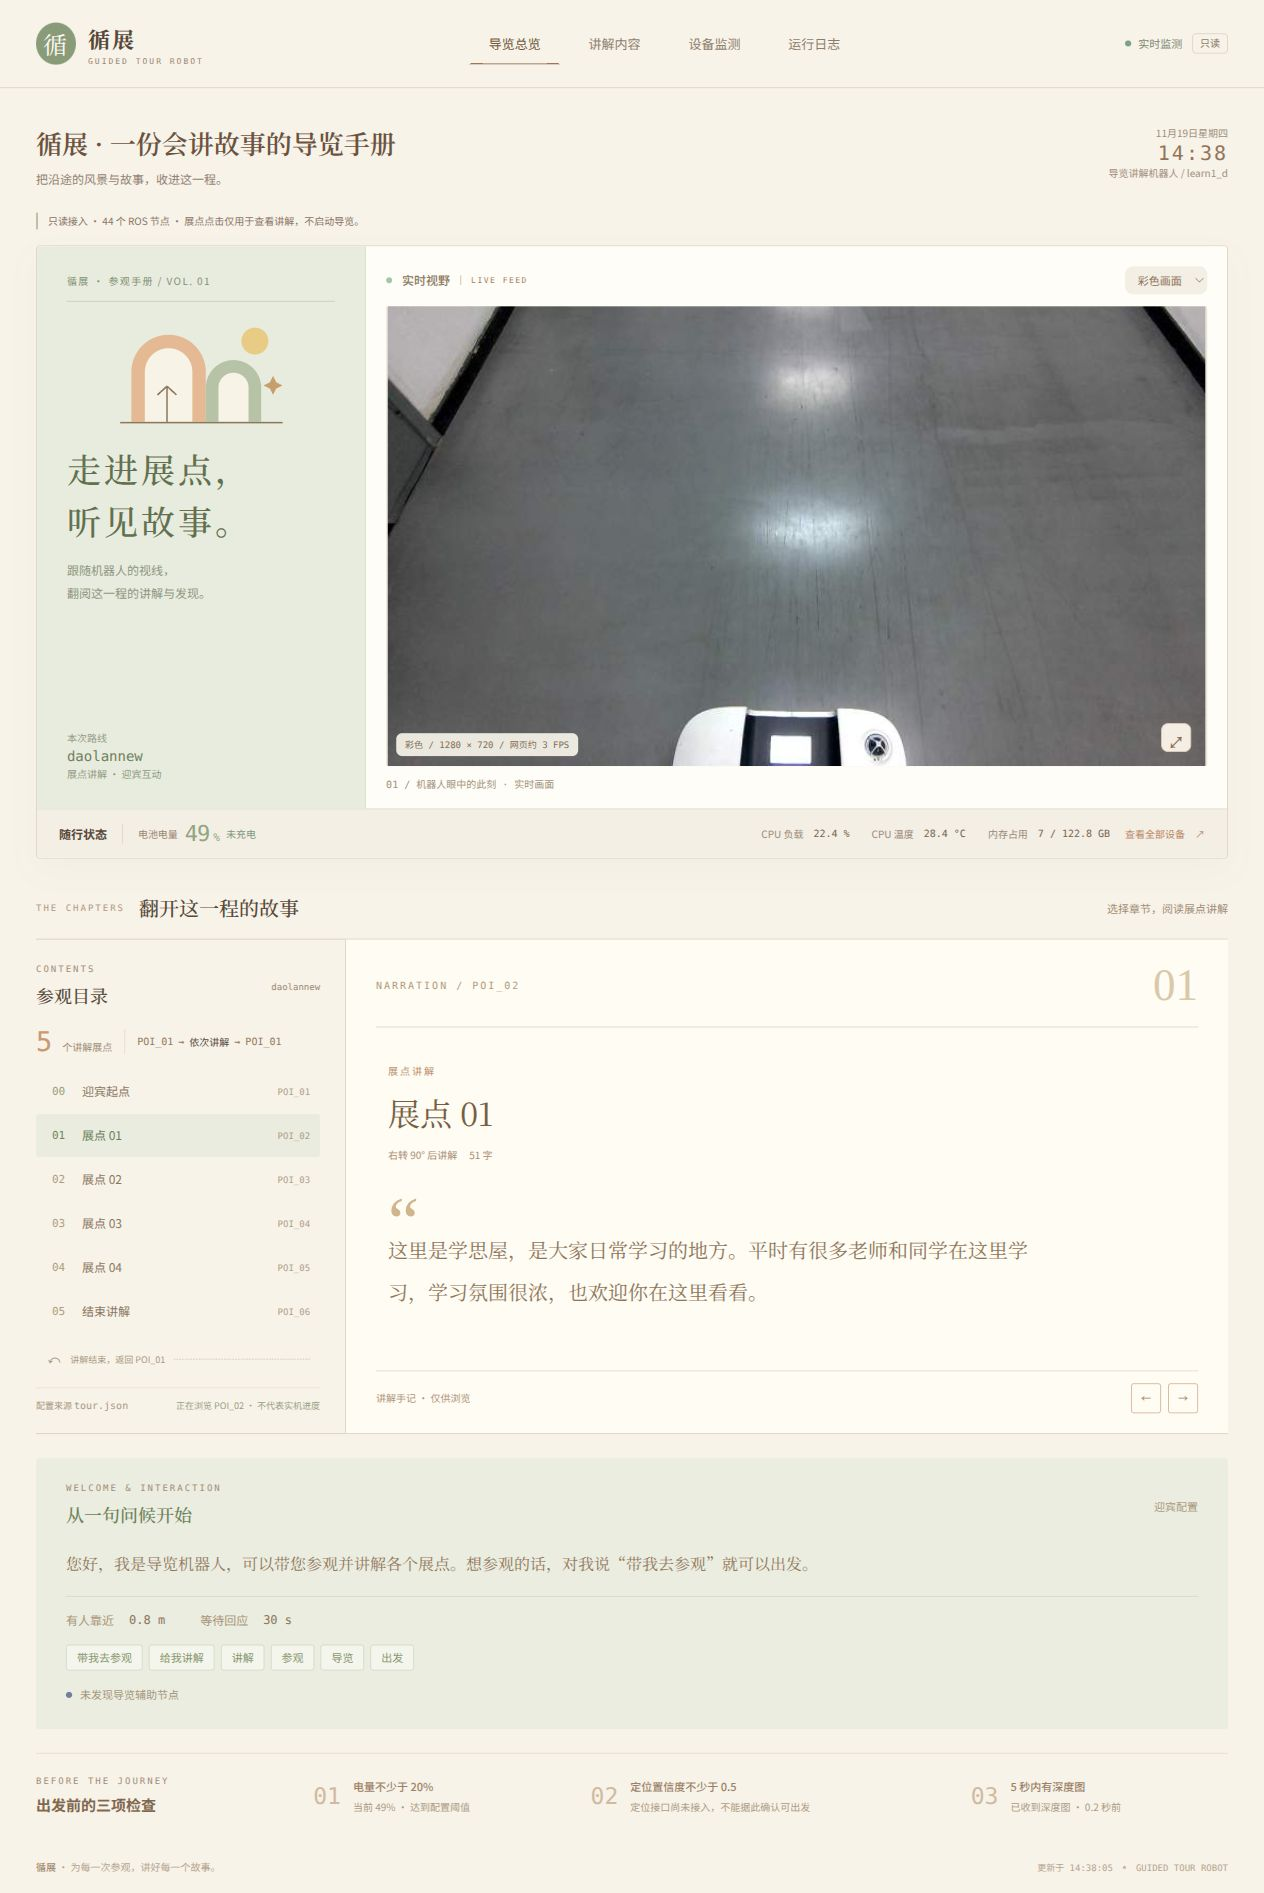
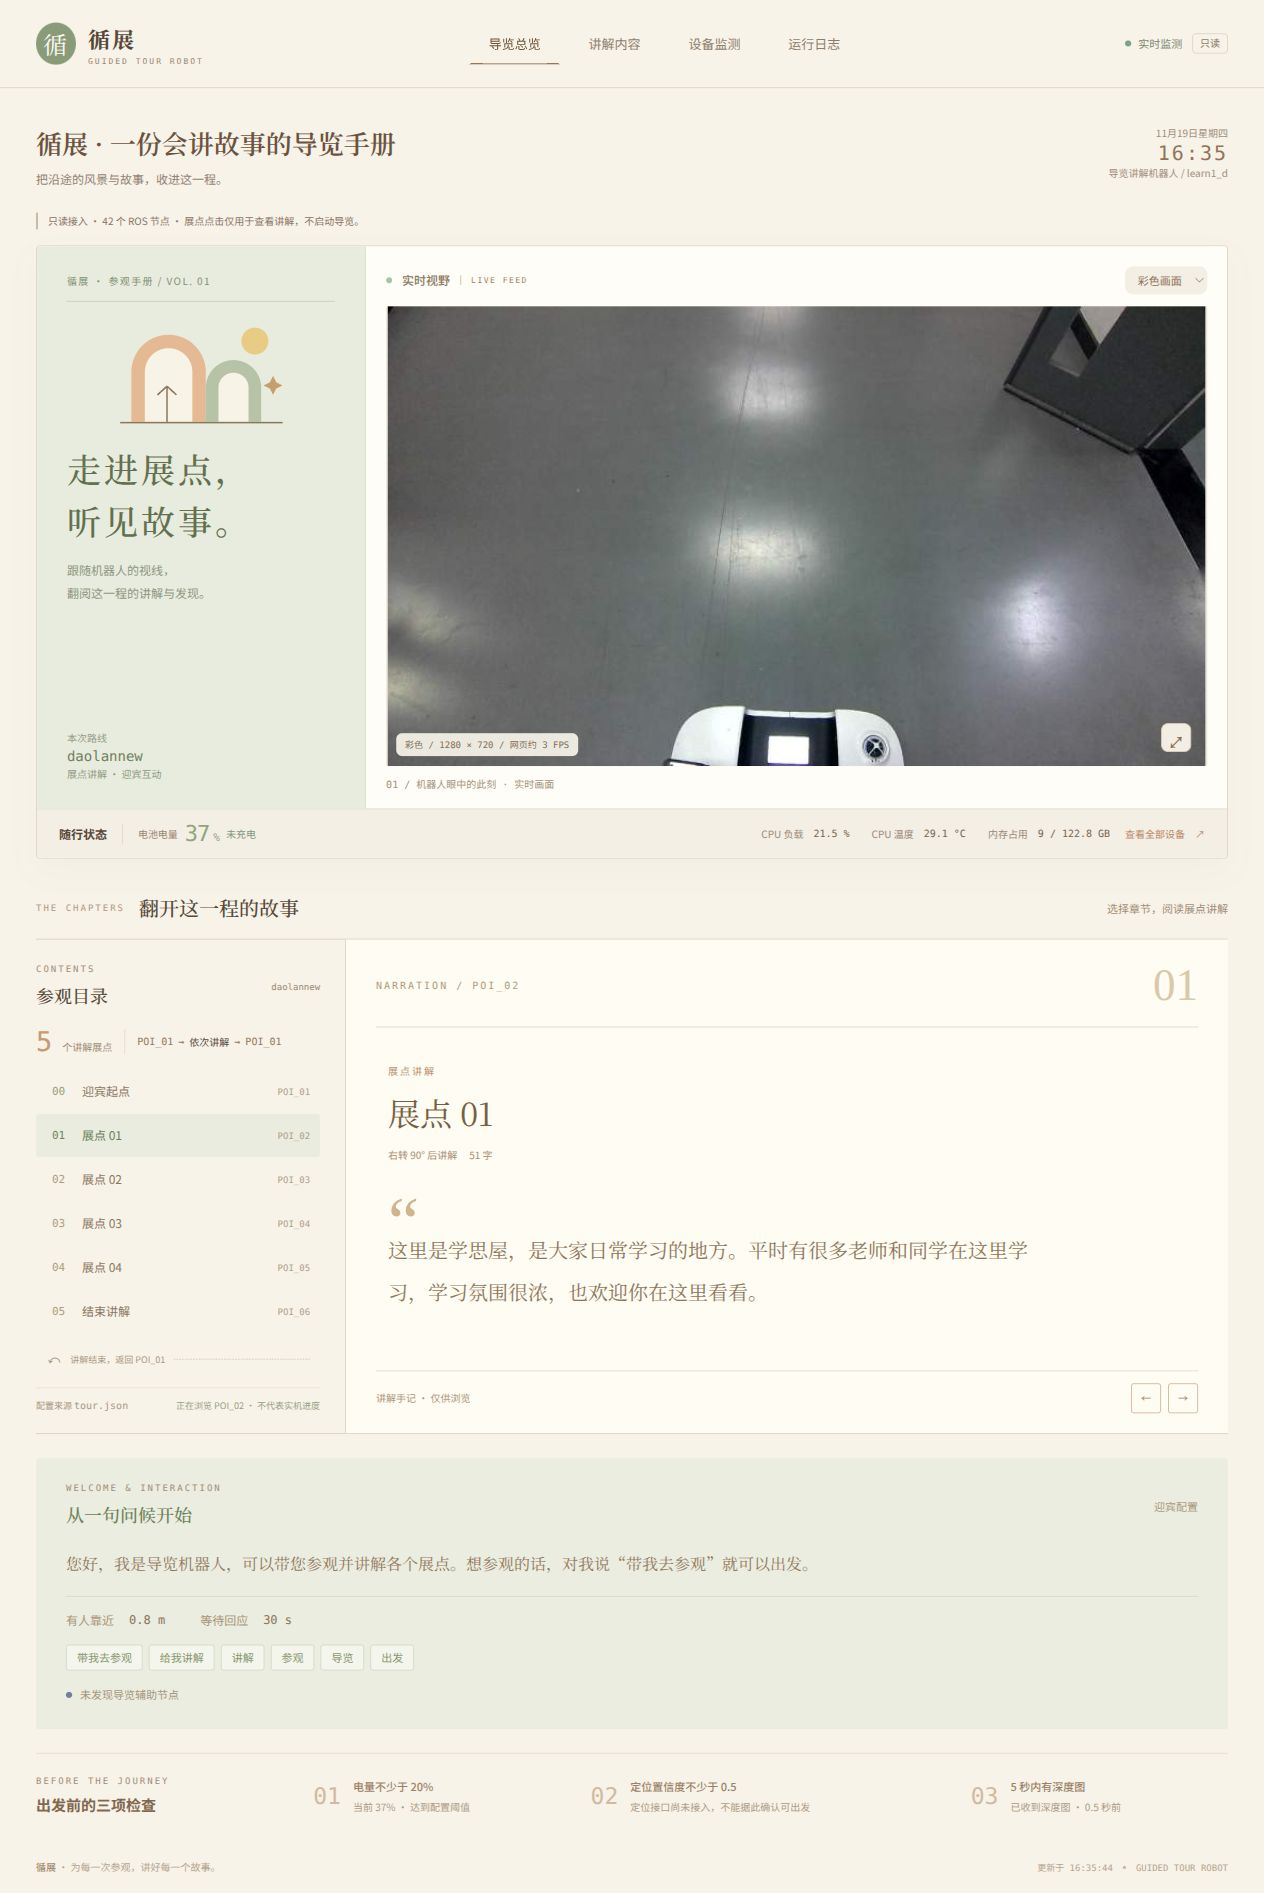
docs: 补充导览工作台四个页面实机截图与说明

diff --git a/README.md b/README.md
@@ -6,11 +6,48 @@
 
 ## 网页预览
 
-机器人连接状态下的实际网页截图，展示头部相机画面、电池与主机数据。截图是当时状态的记录，不代表当前导航状态。
+「循展」是本项目的独立只读工作台，提供导览配置浏览、讲解内容检索、实时相机与设备监测。以下四张截图于 **2026 年 11 月 19 日连接机器人后实机采集**，记录当时的网页状态。
 
-![循展导览讲解工作台](docs/images/web-dashboard.jpg)
+### 导览总览：路线、相机与讲解预览
 
-「循展」工作台提供路线与讲解稿浏览、实时相机及设备监测，详见 [Web 工作台说明](web/README.md)。
+![导览总览：实时相机、路线目录与展点讲解](docs/images/web-dashboard.jpg)
+
+- **实时视野**：查看头部相机画面，并在随行状态栏查看电量、CPU、温度和内存。
+- **参观目录**：展示 `daolannew` 路线的起点、逐站展点及返回起点的配置。
+- **讲解预览**：点击章节或前后翻页，浏览该展点的讲解词与转向配置。
+- **迎宾与检查**：展示问候语、启动关键词、靠近距离及配置中的检查阈值。
+
+章节选择仅用于阅读讲解稿，不会启动导航或播报，也不代表机器人当前到达的展点。定位接口尚未接入，页面中的检查信息不能单独作为出发依据。
+
+### 讲解内容：逐站稿件与互动话术
+
+![讲解内容库：逐站讲解与迎宾让行话术](docs/images/web-narration.jpg)
+
+- **逐站讲解**：集中浏览迎宾起点、各展点与结束讲解，核对点位编号、讲解内容及转向说明。
+- **内容检索**：按展点、点位或讲解词查找内容。
+- **互动话术**：查看出发欢迎、确认出发、去返程让行、恢复行走、结束及回到待机的配置话术。
+
+内容来自项目的 `tour.json`，网页用于浏览；修改讲解词请编辑项目配置文件。
+
+### 设备监测：主机、相机与服务状态
+
+![设备监测：电量、主机资源、ROS与相机数据](docs/images/web-devices.jpg)
+
+- **主机与电池**：查看电量、充电状态、CPU、温度和内存，并标明数据来源。
+- **ROS 与相机**：查看节点数量、头部相机接收情况、深度图前方距离与语音服务发现情况。
+- **未接入项目**：明确标注导航与讲解进度尚未接入、当前运行地图未查询，避免将配置值误认为运行状态。
+
+节点或服务可发现表示监测到了对应接口，不等于完成实机功能验证。
+
+### 运行日志：监测连接与 ROS 警告
+
+![运行日志：只读监测连接事件与话题订阅记录](docs/images/web-logs.jpg)
+
+- 按时间查看监测服务启动、电池连接、ROS 图连接及话题订阅等事件。
+- 支持按 `INFO`、`WARN`、`ERROR` 筛选，暂停更新和导出日志。
+- 目前收集监测连接事件与相关 ROS 警告，机器人终端中的完整导览输出尚未接入。
+
+启动和访问方法见下方[网页启动](#网页启动)，更多说明见 [Web 工作台文档](web/README.md)。
 
 ## 完整流程
 
